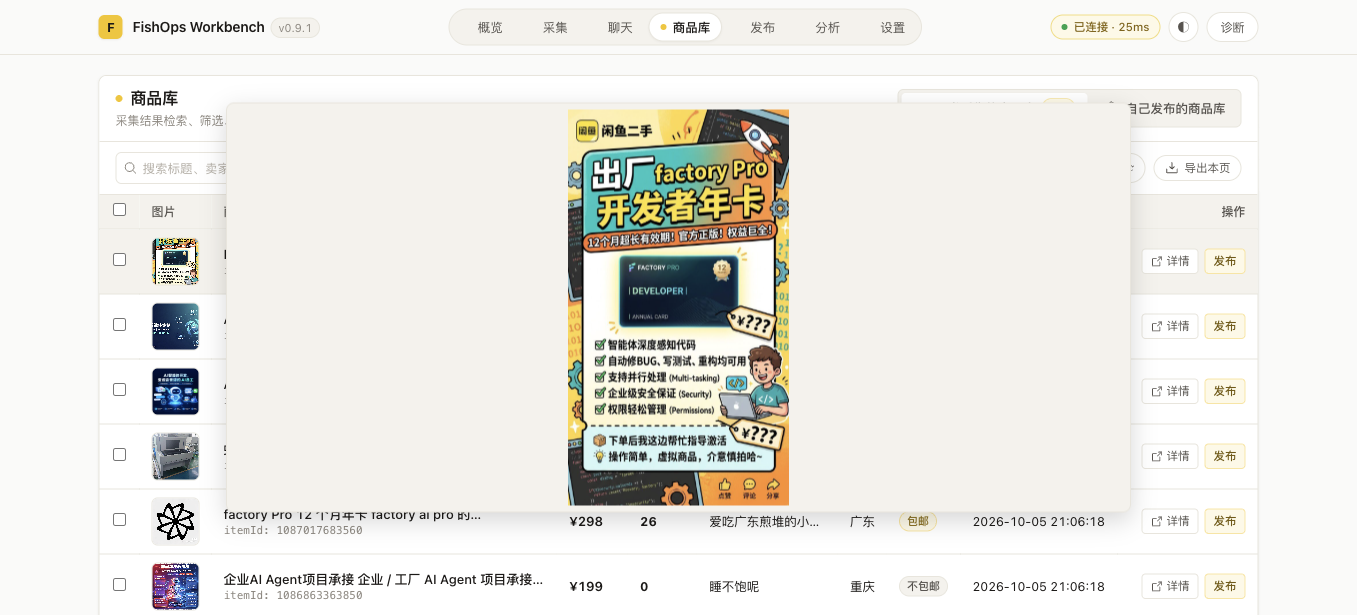
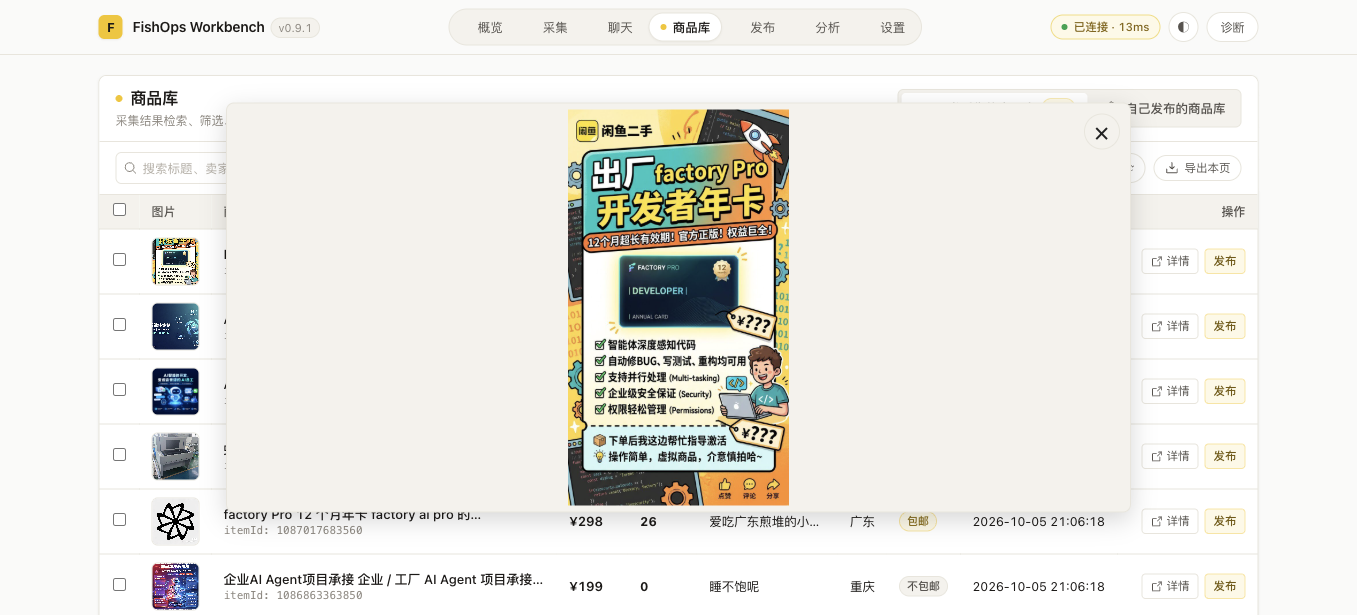
feat(products): 为居中图片预览增加右上角关闭按钮 (#11)

diff --git a/workbench/src/components/ProductImagePreview.vue b/workbench/src/components/ProductImagePreview.vue
@@ -7,8 +7,21 @@ const props = defineProps<{ src?: string; alt: string }>()
 const position = ref<ReturnType<typeof imagePreviewPosition> | null>(null)
 const loaded = ref(false)
 const failed = ref(false)
+let closeTimer: ReturnType<typeof setTimeout> | undefined
+
+function cancelClose(): void {
+  clearTimeout(closeTimer)
+  closeTimer = undefined
+}
+
+/** 给鼠标从缩略图移到居中预览的时间，进入预览后保持打开以便操作关闭按钮。 */
+function scheduleClose(): void {
+  cancelClose()
+  closeTimer = setTimeout(close, 500)
+}
 
 function close(): void {
+  cancelClose()
   position.value = null
   loaded.value = false
   window.removeEventListener('scroll', close, true)
@@ -17,6 +30,7 @@ function close(): void {
 
 function open(): void {
   if (!props.src || failed.value) return
+  cancelClose()
   position.value = imagePreviewPosition({ width: window.innerWidth, height: window.innerHeight })
   // 滚动或调整窗口后关闭，避免预览残留在已离开视口的旧商品位置。
   window.addEventListener('scroll', close, true)
@@ -36,7 +50,7 @@ onBeforeUnmount(close)
 </script>
 
 <template>
-  <div class="product-image-trigger" @mouseenter="open" @mouseleave="close">
+  <div class="product-image-trigger" @mouseenter="open" @mouseleave="scheduleClose">
     <slot />
   </div>
   <!-- 脱离表格滚动容器，既不撑高行，也不被 overflow 裁切。 -->
@@ -49,9 +63,13 @@ onBeforeUnmount(close)
         width: `${position.width}px`, height: `${position.height}px`,
         visibility: loaded ? 'visible' : 'hidden',
       }"
-      role="img"
+      @mouseenter="cancelClose"
+      @mouseleave="scheduleClose"
+      @keydown.esc="close"
+      role="region"
       :aria-label="`${alt}，放大预览`"
     >
+      <button class="product-image-close" type="button" aria-label="关闭图片预览" @click="close">×</button>
       <img :key="src" :src="src" :alt="alt" @load="loaded = true" @error="onError" />
     </div>
   </Teleport>
@@ -62,7 +80,7 @@ onBeforeUnmount(close)
 .product-image-preview {
   position: fixed;
   z-index: 1000;
-  pointer-events: none;
+  pointer-events: auto;
   padding: 6px;
   box-sizing: border-box;
   border: 1px solid var(--border-line, #ede8df);
@@ -70,5 +88,20 @@ onBeforeUnmount(close)
   background: var(--bg-subtle, #faf8f5);
   box-shadow: 0 8px 24px rgb(0 0 0 / 16%);
 }
+.product-image-close {
+  position: absolute;
+  top: 10px;
+  right: 10px;
+  width: 36px;
+  height: 36px;
+  border: 1px solid var(--border-line, #ede8df);
+  border-radius: 50%;
+  background: var(--bg-subtle, #faf8f5);
+  color: var(--text-primary, #222);
+  font-size: 26px;
+  line-height: 1;
+  cursor: pointer;
+}
+.product-image-close:focus-visible { outline: 2px solid currentColor; outline-offset: 2px; }
 .product-image-preview img { width: 100%; height: 100%; object-fit: contain; display: block; }
 </style>

diff --git a/docs/issue-11-product-image-preview.md b/docs/issue-11-product-image-preview.md
@@ -57,3 +57,9 @@ PR 等待人工 Review，不自动合并。
 按用户要求将预览改为屏幕中央，宽、高分别为视口的 2/3；实际图片仍保持比例，不拉伸、不裁切。新定位回归在旧实现上失败，修改后通过。工作台 387/387 测试、typecheck 通过；重新执行 agent:setup 完整构建、部署并重载成功（退出码 0，SETUP_COMPLETED）。部署包含本次未提交的代码改动。
 
 真实扩展重新打开后，视口 1357×615，预览位置约 (226.16, 102.5)、尺寸约 904.66×410，符合居中及 2/3 比例；真实图片 768×1376 使用 contain，行高前后均为 64.5px。移出关闭、连续切换与页面切出清理通过，无 mock、无数据注入或外部写入。以上两张真实截图已更新为居中大图效果。
+
+## 右上角关闭按钮复验
+
+预览右上角增加 36×36px 的「关闭图片预览」按钮。预览可接收鼠标操作；移出缩略图或预览后延迟 500ms 关闭，移入预览取消计时，允许跨越间距操作按钮。点击立即关闭，组件卸载及其他关闭路径清理计时器。区域改为 region，避免交互按钮嵌在 img 语义内；按钮支持键盘操作，Escape 可从预览内关闭。
+
+最终工作台 387/387 测试、typecheck 通过；agent:setup 完整构建及真实部署退出码 0，包含 SETUP_COMPLETED。真实商品库复验：移到右上角按钮后预览保持可见，按钮尺寸 36×36，点击后预览消失；再次悬浮可打开，移出后延迟关闭通过，无 mock 或数据注入。两张真实截图已更新为含关闭按钮的效果。未执行发布或外部写入。
